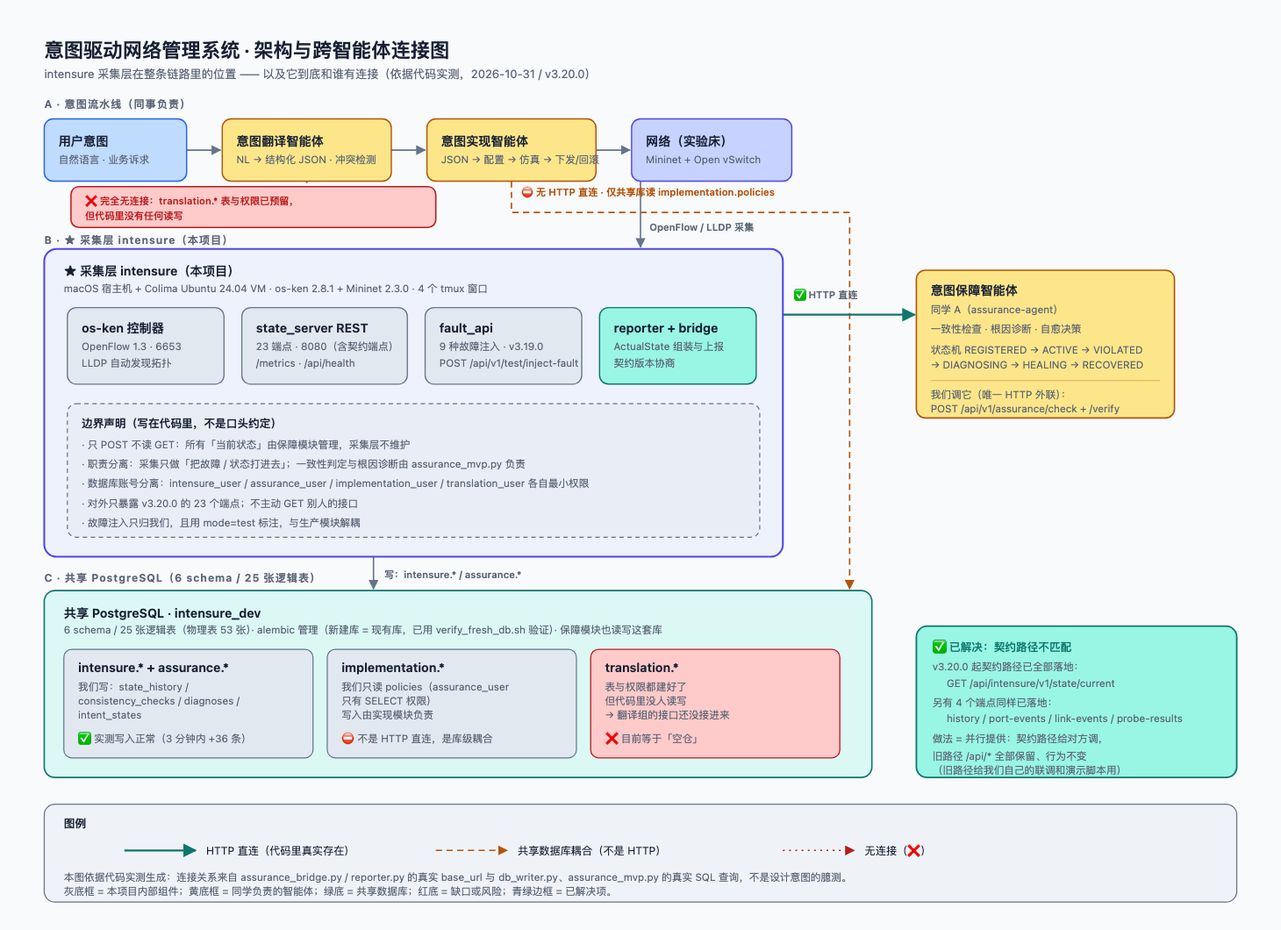
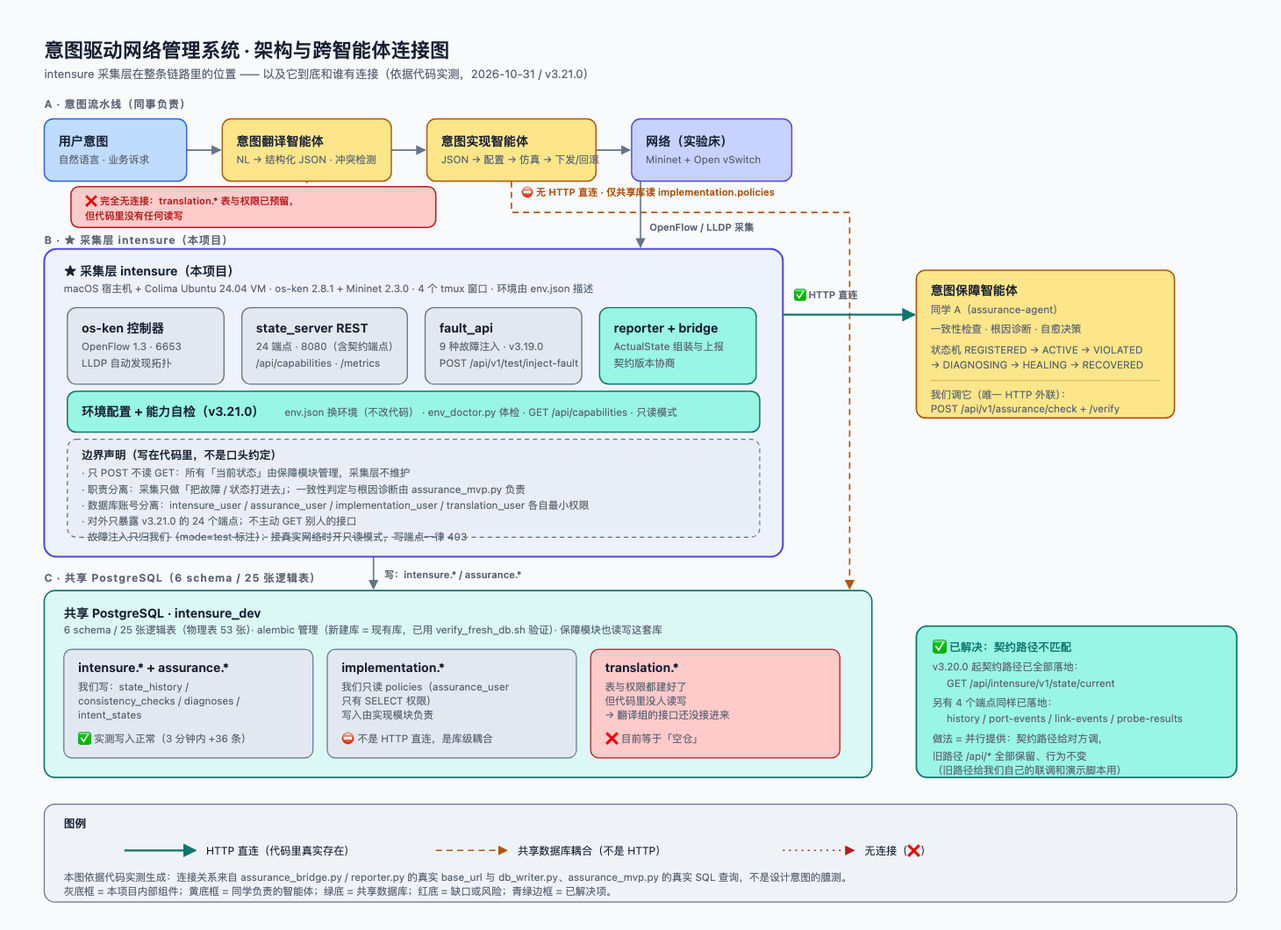
docs: 同步 v3.21.0 环境配置化文档
同步 v3.21.0（环境配置化 + 能力自检 + 只读模式）的实现文档，
全部数字以实测为准。

CHANGELOG.md
- 新增 v3.21.0 条目（2026-10-31）：env_config.py / capabilities.py /
  env_doctor.py / env.json / env.topo_simple.json 的职责与用法、
  5 项改造、2 个真 bug、测试 196 → 211

README.md
- 完成状态表加 v3.21.0 一行；标题 v3.20 → v3.21
- 文件清单新增「环境配置层」组（5 个新文件），state_server 端点数 23 → 24
- 新增 §1.4「环境配置与体检」：env_doctor 用法与退出码（0/1/2）、
  env.json 常用字段表、只读模式什么时候开
- 「对外接口」章节加 GET /api/capabilities（换环境后先看这个，不用试错）
- 踩坑清单加 2 条：
  14. 状态文件写不进去被静默吞（root 属主的旧 /tmp/network_state.json
      → 状态永远停在旧快照，且查不出原因）
  15. Python 侧的 urllib 也会被代理劫持（v3.19.0 只修了 curl 侧）

docs/DEVELOPMENT_LOG.md
- 头部与 §1：版本 v3.21.0 / 24 个端点 / 211 例 / CI 14 个文件；
  新增「环境配置」一行
- §2 时间线加 v3.21.0
- 新增 §3.5「环境体检」：env_doctor.py 用法、退出码含义、检查项清单
- §7：合并两条重复的 speaker_notes 行；新增「env.json 的拓扑期望必须和
  实际启动的拓扑一致」（start_all.sh 是 1 交换机、demo_full.py 是 2 交换机）
- §4.2 待办按现状更新：保留 collector 多协议适配器（补充说明
  probe.driver 已抽成配置项）、新增「真实 OpenFlow 网络接入验证」

docs/architecture.html + .png
- 采集层新增绿色带「环境配置 + 能力自检（v3.21.0）」：
  env.json 换环境 / env_doctor.py 体检 / GET /api/capabilities / 只读模式
- state_server 框 23 → 24 端点，明细改为 /api/capabilities · /metrics
- 边界声明同步：v3.21.0 的 24 个端点、故障注入行补「接真实网络时开只读
  模式，写端点一律 403」
- 采集层副标题补「环境由 env.json 描述」，图副标题 v3.20.0 → v3.21.0
- 契约路径那块保持 v3.20.0 的「✅ 已解决」绿框不变（翻译模块红框仍准确：
  translation.* 只有 schema DDL，运行时无任何代码读写）
- PNG 用 headless Chrome 重截（1460×1060），已目视确认渲染正确

核对依据：env_config.py / capabilities.py / env_doctor.py / env.json 实际实现
+ state_server.py 实际路由数（24）+ pytest 实际收集（211 passed，CI 14 文件）
[…]

Changed region(s): [[0.0308, 0.3736, 0.6164, 0.5915], [0.4315, 0.2802, 0.4623, 0.3113], [0.4315, 0.0623, 0.4623, 0.0934]]

diff --git a/docs/architecture.html b/docs/architecture.html
@@ -91,7 +91,7 @@
     </defs>
 
     <text class="title" x="30" y="40">意图驱动网络管理系统 · 架构与跨智能体连接图</text>
-    <text class="subtitle" x="30" y="64">intensure 采集层在整条链路里的位置 —— 以及它到底和谁有连接（依据代码实测，2026-10-31 / v3.20.0）</text>
+    <text class="subtitle" x="30" y="64">intensure 采集层在整条链路里的位置 —— 以及它到底和谁有连接（依据代码实测，2026-10-31 / v3.21.0）</text>
 
     <!-- ============ 连接线（先画，压在盒子下面） ============ -->
 
@@ -151,7 +151,7 @@
     <!-- ============ B 区：采集层 ============ -->
     <rect x="30" y="256" width="830" height="346" rx="14" fill="var(--process)" fill-opacity="0.2" stroke="#4f46e5" stroke-width="2" />
     <text class="box-title" x="52" y="286">★ 采集层 intensure（本项目）</text>
-    <text class="box-sub" x="52" y="305">macOS 宿主机 + Colima Ubuntu 24.04 VM · os-ken 2.8.1 + Mininet 2.3.0 · 4 个 tmux 窗口</text>
+    <text class="box-sub" x="52" y="305">macOS 宿主机 + Colima Ubuntu 24.04 VM · os-ken 2.8.1 + Mininet 2.3.0 · 4 个 tmux 窗口 · 环境由 env.json 描述</text>
 
     <rect x="56" y="322" width="176" height="86" rx="10" fill="var(--neutral)" stroke="#64748b" stroke-width="1.3" />
     <text class="box-title" x="72" y="350">os-ken 控制器</text>
@@ -160,8 +160,8 @@
 
     <rect x="252" y="322" width="186" height="86" rx="10" fill="var(--neutral)" stroke="#64748b" stroke-width="1.3" />
     <text class="box-title" x="268" y="350">state_server REST</text>
-    <text class="box-sub" x="268" y="370">23 端点 · 8080（含契约端点）</text>
-    <text class="box-sub" x="268" y="388">/metrics · /api/health</text>
+    <text class="box-sub" x="268" y="370">24 端点 · 8080（含契约端点）</text>
+    <text class="box-sub" x="268" y="388">/api/capabilities · /metrics</text>
 
     <rect x="458" y="322" width="176" height="86" rx="10" fill="var(--neutral)" stroke="#64748b" stroke-width="1.3" />
     <text class="box-title" x="474" y="350">fault_api</text>
@@ -173,13 +173,17 @@
     <text class="box-sub" x="670" y="370">ActualState 组装与上报</text>
     <text class="box-sub" x="670" y="388">契约版本协商</text>
 
-    <rect x="56" y="430" width="778" height="150" rx="10" fill="var(--neutral)" fill-opacity="0.5" stroke="#64748b" stroke-width="1.2" stroke-dasharray="5 4" />
-    <text class="note-head" x="72" y="456">边界声明（写在代码里，不是口头约定）</text>
-    <text class="note-text" x="72" y="480">· 只 POST 不读 GET：所有「当前状态」由保障模块管理，采集层不维护</text>
-    <text class="note-text" x="72" y="502">· 职责分离：采集只做「把故障 / 状态打进去」；一致性判定与根因诊断由 assurance_mvp.py 负责</text>
-    <text class="note-text" x="72" y="524">· 数据库账号分离：intensure_user / assurance_user / implementation_user / translation_user 各自最小权限</text>
-    <text class="note-text" x="72" y="546">· 对外只暴露 v3.20.0 的 23 个端点；不主动 GET 别人的接口</text>
-    <text class="note-text" x="72" y="568">· 故障注入只归我们，且用 mode=test 标注，与生产模块解耦</text>
+    <rect x="56" y="416" width="778" height="46" rx="10" fill="var(--storage)" stroke="#0f766e" stroke-width="1.5" />
+    <text class="box-title" x="72" y="444">环境配置 + 能力自检（v3.21.0）</text>
+    <text class="box-sub" x="300" y="444">env.json 换环境（不改代码） · env_doctor.py 体检 · GET /api/capabilities · 只读模式</text>
+
+    <rect x="56" y="470" width="778" height="110" rx="10" fill="var(--neutral)" fill-opacity="0.5" stroke="#64748b" stroke-width="1.2" stroke-dasharray="5 4" />
+    <text class="note-head" x="72" y="492">边界声明（写在代码里，不是口头约定）</text>
+    <text class="note-text" x="72" y="512">· 只 POST 不读 GET：所有「当前状态」由保障模块管理，采集层不维护</text>
+    <text class="note-text" x="72" y="530">· 职责分离：采集只做「把故障 / 状态打进去」；一致性判定与根因诊断由 assurance_mvp.py 负责</text>
+    <text class="note-text" x="72" y="548">· 数据库账号分离：intensure_user / assurance_user / implementation_user / translation_user 各自最小权限</text>
+    <text class="note-text" x="72" y="566">· 对外只暴露 v3.21.0 的 24 个端点；不主动 GET 别人的接口</text>
+    <text class="note-text" x="72" y="584">· 故障注入只归我们（mode=test 标注）；接真实网络时开只读模式，写端点一律 403</text>
 
     <!-- 写库标签 -->
     <text class="conn-label" x="412" y="626">写：intensure.* / assurance.*</text>

diff --git a/README.md b/README.md
@@ -18,7 +18,7 @@
 
 ## ✅ 完成状态
 
-### ✅ 已完成（v1.0 ~ v3.20, 2026-08-04 ~ 2026-10-31）
+### ✅ 已完成（v1.0 ~ v3.21, 2026-08-04 ~ 2026-10-31）
 
 | 任务 | 状态 |
 |---|---|
@@ -54,6 +54,7 @@
 | **可观测性**（`metrics.py` 纯标准库 Prometheus 注册表 + `GET /metrics` + 上报/自营 REST 埋点）| ✅ v3.18.0 (2026-10-29) |
 | **契约版本管理**（`assurance_bridge.py` 版本协商 6 态 + 60s TTL + 严格模式开关）| ✅ v3.18.0 (2026-10-29) |
 | **契约端点落地**（`/api/intensure/v1/*` 5 个端点 + `contract_api.py` 转换层，旧路径保留）| ✅ v3.20.0 (2026-10-31) |
+| **环境配置化 + 能力自检**（`env_config.py` / `capabilities.py` / `env_doctor.py` / `env.json` + 只读模式）| ✅ v3.21.0 (2026-10-31) |
 | **故障注入 REST 接口**（`POST /api/v1/test/inject-fault` + `GET/DELETE /api/v1/test/faults`，9 种故障全覆盖）| ✅ v3.19.0 (2026-10-29) |
 
 ### 🎯 下一步（我们主动要做）
@@ -130,6 +131,54 @@ pip install -r requirements-dev.txt
 ```bash
 colima start
 ```
+
+### 1⃣.4 环境配置与体检（v3.21.0 新增，换环境必看）
+
+**换环境不用改代码了** —— 环境差异全在配置文件里。
+
+```bash
+# 体检：当前环境能不能干活、缺什么
+python3 env_doctor.py            # 人看的报告
+python3 env_doctor.py --json     # 机器可读（给脚本用）
+
+# 退出码：0 = 关键项全通过（可能有告警）
+#         1 = 有 error 级失败
+#         2 = 采集层没跑起来，连状态都拿不到
+```
+
+**换环境就改 `env.json`**（或在 `env.yaml` 里写同样内容）：
+
+```bash
+export INTENSURE_ENV_FILE=env.topo_simple.json   # 换成 2 交换机那份
+```
+
+配置查找顺序：**显式路径 → `$INTENSURE_ENV_FILE` → `env.json` → `env.yaml`**。
+**配置文件缺失也能跑** —— 会用 `env_config.py` 里的内置默认值，而默认值等于改造前的行为。
+
+`env.json` 常用字段：
+
+| 字段 | 作用 |
+|---|---|
+| `environment` | 环境标签，会出现在 `GET /api/capabilities` 输出里 |
+| `mode` | `active`（允许注故障）/ `read-only`（**只读**，任何写端点一律 403）|
+| `topology_expect` | 期望拓扑（交换机数 / 主机数 / 链路数），状态校验用它 |
+| `dpid_to_switch` | dpid → 设备名映射；真实设备 dpid 没规律时在这里显式写 |
+| `port_label_map` | 真实端口名 → 契约短标签（`GigabitEthernet0/1` → `eth1`）|
+| `probe` | 探测参数：`driver`（`mininet` / `icmp`）、`source`、`destination` |
+| `allow_fault_injection` | **接真实网络时必须 `false`** —— 注故障是 `sudo tc` 打网卡 |
+| `assurance_expected_version` | 期望的对方契约版本；`null` = 用 `assurance_bridge` 默认值 |
+
+**只读模式什么时候开**：接**真实网络**（别人的设备、生产的网）时必须开 ——
+注故障本质是 `sudo tc` 打本机网卡，对着别人的设备发这类命令是事故：
+
+```json
+{"mode": "read-only", "allow_fault_injection": false}
+```
+
+> ⚠ `env.json` 里的**拓扑期望必须和实际启动的拓扑一致** ——
+> `start_all.sh` 起的是 **1 交换机**，`demo_full.py` / `integration_demo.py` 起的是 **2 交换机**。
+> 对不上会导致状态校验误报「少了 1 台交换机」。
+> 用 `INTENSURE_ENV_FILE=env.topo_simple.json` 切到 2 交换机那份。
 
 ### 1⃣.5 一键启停 + 状态体检（推荐，演示现场用）
 
@@ -311,7 +360,7 @@ colima stop
 
 ---
 
-## 📂 文件清单（截至 v3.20）
+## 📂 文件清单（截至 v3.21）
 
 ```
 intensure/
@@ -322,7 +371,7 @@ intensure/
 ├── 控制器层
 │   ├── simple_switch_13.py     # 最简 L2
 │   ├── controller_app.py       # 链路事件采集（LLDP + PortStatus）
-│   └── state_server.py         # 自营 REST API（Flask，23 端点，含 /metrics + 契约端点）✅ v3.20.0
+│   └── state_server.py         # 自营 REST API（Flask，24 端点，含 /metrics + 契约端点 + /api/capabilities）✅ v3.21.0
 ├── 采集层
 │   ├── state_model.py          # 内部数据抽象（供 ActualStateBuilder 读）
 │   ├── state_collector.py      # CLI 工具（手工验证）
@@ -339,6 +388,12 @@ intensure/
 │   ├── mock_assurance_server.py# 本地 mock 保障模块
 │   ├── assurance_bridge.py     # 跨智能体推送桥（ASSURANCE_BASE）+ 契约版本协商 ✅ v3.18.0
 │   └── contract_api.py         # 契约格式转换层（内部 state → /api/intensure/v1/*）✅ v3.20.0
+  ├── 环境配置层 ✅ v3.21.0
+  │   ├── env_config.py           # 环境配置层（读 env.json / env.yaml）
+  │   ├── capabilities.py         # 能力自检（供 GET /api/capabilities）
+  │   ├── env_doctor.py           # 环境体检 CLI（--json / 退出码 0/1/2）
+  │   ├── env.json                # 默认环境（= start_all.sh 的 1 交换机 4 主机）
+  │   └── env.topo_simple.json    # 2 交换机环境（demo_full.py / integration_demo.py 用）
 ├── 保障模块层 ✅ v3.7
 │   ├── assurance_mvp.py        # 一致性检查 + 根因诊断 + 写库
 │   └── graceful.py             # 优雅降级
@@ -358,7 +413,7 @@ intensure/
 │   ├── README.md               # 本文件
 │   ├── REQUIREMENTS.md         # 职责 + 联调契约背景
 │   ├── STATE_MODEL.md          # 统一状态模型
-│   ├── CHANGELOG.md            # 版本历史（v1.0 ~ v3.20）
+│   ├── CHANGELOG.md            # 版本历史（v1.0 ~ v3.21）
 │   └── docs/                   # 优化清单 / 架构 / 契约 / 汇报材料
 │       └── DEVELOPMENT_LOG.md  # ⭐ 开发进度 / 待办 / 交接（先看这个）
 └── legacy/                     # 历史探索材料（不接入主流程）
@@ -395,6 +450,14 @@ intensure/
 （`intensure_assurance_contract` / `intensure_build_info`）。
 
 顺带一提：`GET /api/health` 带 `version` 字段（当前报 `3.19.0`）。
+
+### 🧭 环境能力自检（v3.21.0 新增）
+
+| 端点 | 用途 |
+|---|---|
+| `GET /api/capabilities` | 回答「**当前这个环境我们能干什么**」：已连几台交换机、拓扑发现是不是退化了、探测用哪个驱动、故障注入能不能用、契约版本对不对、是不是只读模式 |
+
+**换环境后先看这个端点 —— 不用试错。**
 
 ### 📡 跨模块契约端点（v3.20.0 新增）
 
@@ -435,6 +498,14 @@ intensure/
 11. **OVS local 端口永远 LINK_DOWN** → 验证时跳过 OFPP_LOCAL
 12. **`pkill -f` 会匹配自身** → 单独跑 pkill 命令
 13. **tar 恢复覆盖新代码** → 先备份再改
+14. **状态文件写不进去被静默吞**（v3.21.0）—— 旧的 `/tmp/network_state.json` 是
+    **root 属主**（以前 sudo 起的控制器留下的），当前用户覆盖不了 → 控制器写盘失败
+    被 `except: pass` 吞掉 → **状态永远停在旧快照**，`state_server` / dashboard 读到
+    过期数据而且**查不出原因**。
+    现在控制器写失败**只报一次**并给修复命令，`start_all.sh` 启动前会删掉不可写的旧文件
+15. **Python 侧的 urllib 也会被代理劫持**（v3.21.0）—— v3.19.0 只修了 curl 侧，
+    Python 侧漏了：VM 的 `http_proxy` 没配 `no_proxy` → 连 `127.0.0.1` 都走代理 →
+    HTTP 不可达。修法同 curl 思路：`urllib.request.build_opener(urllib.request.ProxyHandler({}))`
 
 ### 跨平台联调（待踩坑）
 - Windows 防火墙放行 8000 端口

diff --git a/docs/DEVELOPMENT_LOG.md b/docs/DEVELOPMENT_LOG.md
@@ -1,6 +1,6 @@
 # 开发进度与交接文档（intensure 采集模块）
 
-> 最后更新：**2026-10-31**（对应代码版本 v3.20.0）
+> 最后更新：**2026-10-31**（对应代码版本 v3.21.0）
 > 维护方式：每次做完一轮开发就更新「开发进度」与「待办清单」两节，**以代码实际状态为准**，不写没实现的东西。
 > 本文回答三个问题：现在做到哪了 / 接下来做什么 / 别人怎么接手。
 
@@ -18,12 +18,13 @@ intensure 是意图驱动网络管理系统的**采集层**（Mininet + OVS + os
 
 | 指标 | 数值 | 怎么核的 |
 |---|---|---|
-| 代码版本 | v3.20.0 | `git describe --tags` |
-| 自营 REST 端点 | **23 个** | `grep -c "^@app.route" state_server.py` |
+| 代码版本 | v3.21.0 | `git describe --tags` |
+| 自营 REST 端点 | **24 个** | `grep -c "^@app.route" state_server.py` |
 | 其中跨模块契约端点 | 5 个 | `/api/intensure/v1/*`（v3.20.0 新增） |
-| 单元测试 | **196 例全绿** | VM 内 `pytest` |
-| CI 跑的测试文件 | **13 个** | `.github/workflows/ci.yml` |
+| 单元测试 | **211 例全绿** | VM 内 `pytest` |
+| CI 跑的测试文件 | **14 个** | `.github/workflows/ci.yml` |
 | 代码风格 | `ruff check .` 全过 | 规则 E/W/F，E402 豁免（见 §8） |
+| 环境配置 | `env.json` / `env.yaml`，`$INTENSURE_ENV_FILE` 覆盖 | v3.21.0 起环境差异在配置里，不在代码里 |
 | Python 代码量 | 12212 行（根目录 *.py） | `wc -l *.py` |
 | 提交总数 | 55 个（含本文档 commit） | `git log --oneline \| wc -l` |
 | 数据库 | **6 schema / 25 张逻辑表**（物理表 53 张，其中 75 个是分区子表）| 实测口径见下方脚注 |
@@ -72,6 +73,7 @@ intensure 是意图驱动网络管理系统的**采集层**（Mininet + OVS + os
 | **v3.18.0** | 10-29 | **可观测性**（`metrics.py` 纯标准库 Prometheus + `GET /metrics`）+ **契约版本协商**（6 态状态机，版本冲突自动降级不上报） |
 | **v3.19.0** | 10-29 | **故障注入 REST 接口**（9 种故障 + 幂等清理，演示脚本接上真端点）+ 修 `http_proxy` 劫持导致健康检查假失败 |
 | **v3.20.0** | 10-31 | **落地 `/api/intensure/v1/*` 跨模块契约端点**（5 个，旧路径全部保留不破坏现有联调） |
+| **v3.21.0** | 10-31 | **环境配置化 + 能力自检 + 只读模式**（`env_config.py` / `capabilities.py` / `env_doctor.py` / `env.json`；`GET /api/capabilities`）。顺带修 2 个真 bug：状态文件写不进去被静默吞、Python 侧 urllib 也被代理劫持 |
 
 ---
 
@@ -156,6 +158,21 @@ curl -s --noproxy '*' http://127.0.0.1:8080/metrics | head   # 看指标
 
 ---
 
+### 3.5 环境体检（v3.21.0 新增，换环境先跑这个）
+
+```bash
+python3 env_doctor.py            # 人看的报告
+python3 env_doctor.py --json     # 机器可读（给脚本用）
+```
+
+**退出码**：`0` = 关键项全通过（可能有告警）｜`1` = 有 error 级失败 ｜`2` = 采集层没跑起来，连状态都拿不到。
+
+它会检查：状态新鲜度、环境配置是否加载、只读模式、交换机数、主机数、交换机间链路数、
+拓扑发现方式、探测驱动、故障注入可用性、契约版本。
+
+> 💡 换环境（换 Mininet / 接真实网络）之前先跑一遍 —— **不用试错**。
+> 同样的信息也能从 `GET /api/capabilities` 直接拿到（JSON）。
+
 ## 4. 待办清单（2026-10-31）
 
 ### 4.1 🔴 演示前必做（阻塞级）
@@ -173,9 +190,10 @@ curl -s --noproxy '*' http://127.0.0.1:8080/metrics | head   # 看指标
 | Dashboard 单文件 SPA 拆分 | 3-5 天 | 1600+ 行 HTML/JS/CSS 混在一起。**演示是加分项，拆错会伤演示**，建议演示后再做 |
 | Docker 化 | 3 天 | `Dockerfile` + compose（intensure / postgres / dashboard 三服务） |
 | 真实园区迁移路径文档 | 0.5 天 | 还没并入 `INTEGRATION_GUIDE.md` |
-| Dashboard 加联调统计面板 | 1 天 | 上报成功率 / 响应时间 / ActualState 样例（数据源 `metrics.py` 已有） |
-| collector 多协议适配器骨架 | 2-3 天 | SNMP / CLI / OpenFlow |
+| Dashboard 加联调统计面板 | 1 天 | 上报成功率 / 响应时间 / ActualState 样例（数据源 `metrics.py` 已有）；v3.21.0 起还能直接显示 `GET /api/capabilities` 的「当前环境能力」|
+| collector 多协议适配器骨架 | 2-3 天 | SNMP / CLI / OpenFlow。**v3.21.0 已把探测驱动抽成配置项**（`probe.driver`: `mininet` / `icmp` 两个分支代码里已有），SNMP / CLI 适配器还没写 |
 | OVS log → 根因归因 demo | 1 天 | `ovs_logger` 已能抓到「是谁下的 ofctl 命令」 |
+| **真实 OpenFlow 网络接入验证** | 1-2 天 | v3.21.0 的配置层 + 只读模式（`mode: read-only`）已就位，**但从没在真实网络上跑过**。最终验收环境还没定，这是当前最大的未知数 —— 拿到环境后先 `python3 env_doctor.py` 对一遍能力 |
 
 ### 4.3 🔵 已明确的边界（不做）
 
@@ -244,8 +262,8 @@ curl -s --noproxy '*' http://127.0.0.1:8080/metrics | head   # 看指标
 | `dashboard.html` 单文件 1600+ 行 | 低 | 可维护性问题，见 §4.2 |
 | `docs/architecture.png` 需手工重新生成 | 低 | 改 `docs/architecture.html` 后要重新截图 PNG（headless Chrome，`--window-size=1460,1060`）|
 | ~~`39 表 / 15 个月分区` 旧数全库 6 处~~ | ✅ 已清 | 2026-10-31 按实测统一为 **25 张逻辑表 / 53 张物理表（75 个分区子表）**：`README.md`（3 处）、`REQUIREMENTS.md`（1 处）、`docs/architecture.html`（2 处）均已改，`architecture.png` 已用 headless Chrome 重新截图（1460×1060） |
-| `speaker_notes.md` 里 Q4「自愈留给 Phase 2」、Q6「稳定时 60 秒写一次心跳」两条内容已过期 | 中 | 自愈已有 `assurance_mvp.py`；心跳 v3.9 起默认关。讲之前要改，否则会被问住 |
-| `docs/speaker_notes.md` 里有 2 条问答内容已过期 | 低 | Q4 说「自愈的触发和执行留给 Phase 2」（我们已有 `assurance_mvp` 自愈）、Q6 说「稳定时 60 秒写一次心跳」（心跳 v3.9 起默认关）。**讲稿本身是现成的，但这两条要改** |
+| `speaker_notes.md` 里 Q4「自愈留给 Phase 2」、Q6「稳定时 60 秒写一次心跳」两条内容已过期 | 中 | 自愈已有 `assurance_mvp.py`；心跳 v3.9 起默认关。**讲稿本身是现成的，但这两条要改**，否则会被问住 |
+| **`env.json` 的拓扑期望必须和实际启动的拓扑一致** | 中 | v3.21.0 新增配置层时踩过：`start_all.sh` 起的是 **1 交换机 4 主机**，而 `demo_full.py` / `integration_demo.py` 起的是 **2 交换机** —— 配置对不上，状态校验会误报「少了 1 台交换机」。跑 2 交换机那两个脚本前要 `export INTENSURE_ENV_FILE=env.topo_simple.json`。**换环境时先 `python3 env_doctor.py` 对一下** |
 
 ---
 

diff --git a/CHANGELOG.md b/CHANGELOG.md
@@ -9,6 +9,68 @@
 ---
 
 
+## v3.21.0 - 2026-10-31 环境配置化 + 能力自检 + 只读模式
+
+**触发**：最终验收环境还不确定 —— 三个人可能各配各的 Mininet，也可能接真实 OpenFlow 网络。
+原先「本地 Mininet 实验环境」在代码里**写死了 7 处**（拓扑文件、IP 段、交换机命名、探测方式、
+注故障方式、状态校验基线、端口名格式），**换一次环境就要改一轮代码**，而且往往是在赶演示的时候改。
+
+这轮把「环境差异」从代码搬到配置文件，**环境能力变成运行时可查的事实**。
+
+### 新增
+
+**`env_config.py`（329 行）—— 环境配置层**
+- 读 `env.json`（标准库可读，CI 也能跑）/ `env.yaml`（装了 PyYAML 才读）
+- 路径用 `$INTENSURE_ENV_FILE` 覆盖；查找顺序：显式路径 → 环境变量 → `env.json` → `env.yaml`
+- **配置缺失时用内置默认值，而默认值 == 改造前的行为** —— 开这个功能不改变任何现有行为，回归测试照常全绿
+- `env.json` 里的 `//` 注释由 `_strip_json_comments()` 剥掉，所以配置文件能写注释
+
+**`capabilities.py`（143 行）—— 能力自检**
+输出：OpenFlow 协议与已连交换机数、拓扑发现方式（LLDP / degraded）、主机与拓扑期望比对、
+探测驱动与参数、故障注入可用性（含不可用的原因）、契约路径版本与对方期望版本、只读标志。
+
+**`env_doctor.py`（323 行）—— 体检 CLI**
+一条命令回答「当前环境能不能干活、缺什么」；`--json` 给脚本用；退出码 **0 / 1 / 2**
+（0 = 全通过，1 = 有 error 级失败，2 = 采集层没跑起来，连状态都拿不到）。
+
+**`env.json` / `env.topo_simple.json`** —— 两份默认环境配置。
+
+**`GET /api/capabilities`** —— 能力自检端点（挂在 `state_server.py`）。
+
+### 改造
+
+- `state_server` 的 `/api/validate` 改用配置里的拓扑期望（不再写死 2 交换机）
+- **只读模式**：`mode: read-only` 时 `POST /api/v1/test/inject-fault` 一律 **403**
+- `actual_state_builder` 的 `dpid_to_switch` 没显式传时从配置读
+- `state_model` 的校验基线可注入
+- CI pytest 列表补到 **14 个文件**
+
+### 🐛 顺手修的两个真 bug（都是 env_doctor 在真实环境里抓出来的）
+
+**1. 状态文件写不进去被静默吞**
+旧 `/tmp/network_state.json` 是 **root 属主**（以前 sudo 起的控制器留下的），当前用户覆盖不了 →
+控制器写盘失败被 `except: pass` 吞掉 → **状态永远停在 10-25 的旧快照**，
+`state_server` / dashboard 读到过期数据而且**查不出原因**。
+修：控制器写失败**只报一次**并给修复命令（`sudo rm -f /tmp/network_state.json`）；
+`start_all.sh` 启动前删掉不可写的旧文件。
+
+**2. 体检工具自己的 urllib 也被代理劫持**
+VM 的 `http_proxy` 没配 `no_proxy` → 连 `127.0.0.1` 都走代理 → HTTP 不可达。
+curl 那边 v3.19.0 已经修过，**Python 侧漏了**。修：`urllib` 也用 `ProxyHandler({})`（跟 `reporter.py` 一致）。
+
+### 🧪 测试
+
+- 新增 `test_env_config.py`（**15 例**），CI pytest 列表补到 **14 个文件**
+- **测试总数 196 → 211**，本地 **211 passed**，`ruff check` 全过
+
+### 📝 文档
+
+`README.md`（文件清单 / 对外接口 / 环境配置小节 / 踩坑）、`docs/DEVELOPMENT_LOG.md`（时间线 +
+`env_doctor` 用法 + 新增一条经验）、`docs/architecture.html` + `.png`（采集层加「环境配置 + 能力自检」）。
+
+---
+
+
 ## v3.20.0 - 2026-10-31 落地 /api/intensure/v1/* 契约端点
 
 **触发**：架构图（`docs/architecture.html`）里那个红框「⚠ 待解决：契约路径不匹配」
